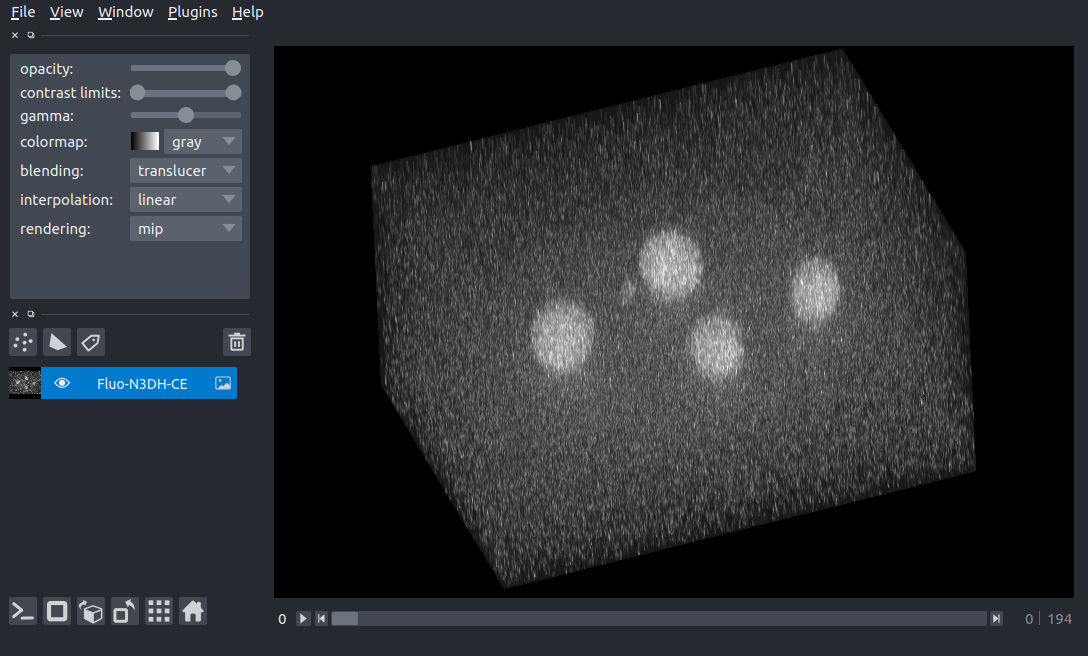
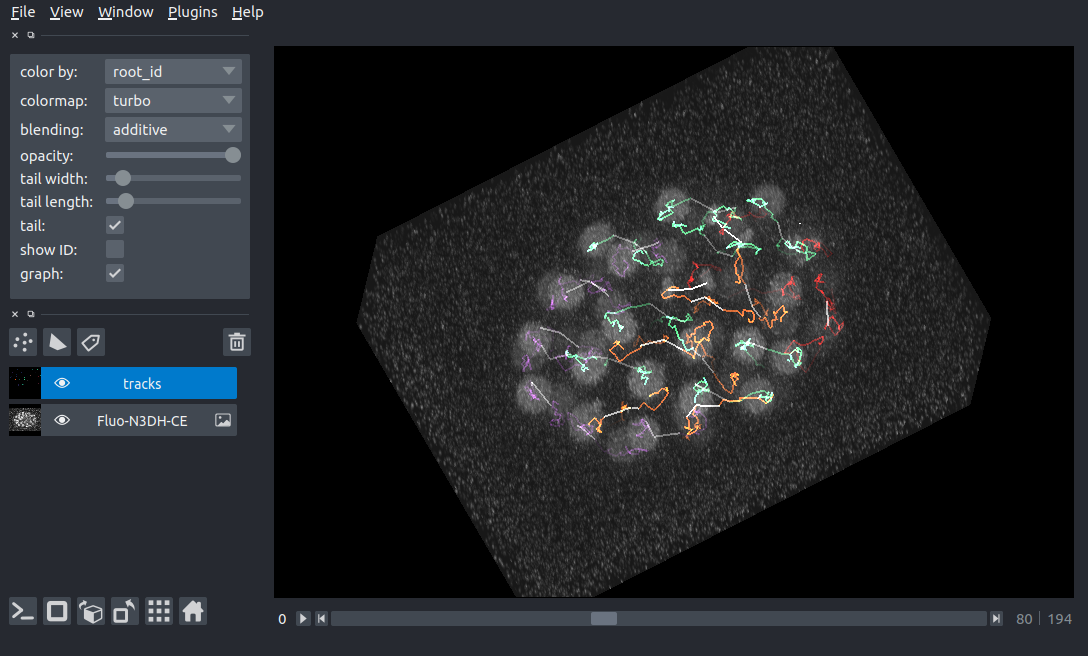
updated cell tracking application

diff --git a/applications/cell_tracking.md b/applications/cell_tracking.md
@@ -7,18 +7,15 @@ In this application note, we will use napari (requires version 0.4.0 or greater)
 
 
 ## cell tracking challenge data
-[cell tracking challenge](http://celltrackingchallenge.net/3d-datasets/)  
+
+The first example of track visualization uses data from the [cell tracking challenge](http://celltrackingchallenge.net/3d-datasets/). We will use the *C. elegans* developing embryo [dataset](http://data.celltrackingchallenge.net/training-datasets/Fluo-N3DH-CE.zip) which consists of 3D+t volumetric imaging data, manually annotated tracks and cell lineage information.
 
 A full description of the data format can be found [here](https://public.celltrackingchallenge.net/documents/Naming%20and%20file%20content%20conventions.pdf).
 
-We will use the *C. elegans* developing embryo [dataset](http://data.celltrackingchallenge.net/training-datasets/Fluo-N3DH-CE.zip).
-
-![image]({{ '/assets/tutorials/tracks_isbi.png' | relative_url }})
-![image](/assets/tutorials/tracks_isbi.png)
 
 ### extracting the tracks from the dataset
 
-First we need to extract the centroids and track labels from the annotated dataset.
+We need to extract the centroids of each cell and their associated track labels from the annotated dataset. We start by loading the images containing the centroids and unique track labels:
 
 ```python
 import os
@@ -29,11 +26,7 @@ import pandas as pd
 
 from skimage.io import imread
 from skimage.measurements import regionprops_table
-```
 
-Start by loading the images containing the centroids and unique track labels.
-
-```python
 PATH = '/path/to/Fluo-N3DH-CE/'
 NUM_IMAGES = 195
 
@@ -80,7 +73,10 @@ data = data.to_numpy()
 
 ### calculating the graph using the lineage information
 
-In the cell tracking challenge dataset, cell lineage information is stored in a text file `man_track.txt`.  The graph information is stored in the following format:
+The `Tracks` layer can also be used to visualize a track 'graph' using the additional keyword argument `graph`. The `graph`  represents associations between tracks, by defining the
+mapping between a `track_id` and the parents of the track. This graph can be useful in single cell tracking to understand the lineage of cells over multiple cell division events.
+
+In the cell tracking challenge dataset, cell lineage information is stored in a text file `man_track.txt` in the following format:
 
 > A text file representing an acyclic graph for the whole video. Every line corresponds
 to a single track that is encoded by four numbers separated by a space:  
@@ -89,8 +85,7 @@ to a single track that is encoded by four numbers separated by a space:
 > E - a zero-based temporal index of the frame in which the track ends  
 > P - label of the parent track (0 is used when no parent is defined)  
 
-First, we load the text file and convert it to a Nx4 integer numpy array, where the rows represent tracks
-and the columns represent L, B, E and P:
+To extract the graph, we load the text file and convert it to a Nx4 integer numpy array, where the rows represent individual tracks and the columns represent L, B, E and P:
 ```python
 lbep = np.loadtxt(os.path.join(PATH, '01_GT/TRA', 'man_track.txt'), dtype=np.uint)
 ```
@@ -134,33 +129,48 @@ properties = {'root_id': [roots[idx] for idx in data[:, 0]]}
 
 ### visualizing the tracks with napari
 
-Finally, we need to adjust the data to account for the anisotropic nature of the image data. We can use the `scale` feature of napari layers to set the voxel size where the z dimension is different to the size in the x and y dimensions. From the dataset, the voxel size (XYZ) in microns is 0.09 x 0.09 x 1.0. Therefore we can set the scale for the layers as:
+Alongside the tracks, we can also visualize the fluorescence imaging data.
+
+```python
+timelapse = [imread(os.path.join(PATH, '01', f't{i:0>3}.tif')) for i in range(NUM_IMAGES)]
+```
+
+Finally, we need to adjust the scaling of the data to account for the anisotropic nature of the images. We can use the `scale` feature of napari layers to set the voxel size where the z dimension is different to the size in the x and y dimensions. From the dataset, the voxel size (XYZ) in microns is 0.09 x 0.09 x 1.0. Therefore we can set the scale for the layers as:
 
 ```python
 # scale factor for dimensions in TZYX order
 SCALE = (1.0, 1.0, 0.09, 0.09)
 ```
 
-We can now visualize the tracks in napari. Note that we need to initialize and interact with the napari viewer in the `with napari.gui_qt()` context manager in order to ensure the GUI is property initialized.
+We can now visualize the tracks in napari. Note that we need to initialize and interact with the napari viewer in the `with napari.gui_qt()` context manager in order to ensure the GUI is properly initialized.
 
 ```python
 with napari.gui_qt():
     viewer = napari.Viewer()
-    viewer.add_image(images, scale=SCALE, name='Fluo-N3DH-CE')
-    viewer.add_tracks(data, properties=properties, graph=graph, scale=SCALE)
+    viewer.add_image(timelapse, scale=SCALE, name='Fluo-N3DH-CE')
+    viewer.add_tracks(data, properties=properties, graph=graph, scale=SCALE, name='tracks')
 ```
+
+![image]({{ '/assets/tutorials/tracks_isbi.png' | relative_url }})
+![image](../assets/tutorials/tracks_isbi.png)
 
 ---
 
 ## using `btrack` to track cells
 
-The `btrack` library can be used for cell tracking. It provides a convenient `to_napari()` function to enable rapid visualization of the tracking results.
+The `btrack` library can be used for cell tracking. It provides a convenient `to_napari()` function to enable rapid visualization of the tracking results. You can learn more about the `btrack` library [here](https://github.com/quantumjot/BayesianTracker).
 
 ```python
 import btrack
-import napari
 ```
 
+We start by loading a file containing the centroids of all the found cells in each frame of the source movie. Note that this file only contains the locations of cells in the movie, there are no tracks yet. We can use the `btrack` library to load this file as a list of `objects` that contain information about each cell, including the TZYX position.
+
+```python
+objects = btrack.dataio.import_CSV('napari_example.csv')
+```
+
+Next we initialize a `btrack.BayesianTracker` instance using a context manager to ensure the library is properly initialized. The tracker performs the process of linking individual cell observations into tracks and the associated track graph:
 
 ```python
 with btrack.BayesianTracker() as tracker:
@@ -179,6 +189,14 @@ with btrack.BayesianTracker() as tracker:
     data, properties, graph = tracker.to_napari(ndim=2)
 ```
 
+We set the configuration of the tracker using a configuration file using the `.configure_from_file()` method. An the example configuration file can be found [here](https://github.com/quantumjot/BayesianTracker/blob/master/models/cell_config.json).
+
+The objects loaded earlier are added to the tracker using the `.append()` method. We also set the imaging volume using the `volume` property. As this is a 2D dataset, the limits of the volume are set to the XY dimensions of the image dataset, and the Z dimension is set to be large (±1e5).
+
+Next, the objects are linked into tracks using the `.track_interactive()` method. The `step_size` argument specifies how many steps are taken before reporting the tracking statistics. The `.optimize()` method then performs a global optimization on the dataset and creates lineage trees automatically.
+
+Finally, the `.to_napari()` method returns the track vertices, track properties and graph in a format that can be directly visualized using the napari `Tracks` layer:
+
 ```python
 with napari.gui_qt():
     viewer = napari.Viewer()
@@ -186,16 +204,20 @@ with napari.gui_qt():
 ```
 
 ![image]({{ '/assets/tutorials/tracks_btrack.png' | relative_url }})
-![image](/assets/tutorials/tracks_btrack.png)
+![image](../assets/tutorials/tracks_btrack.png)
 
 ## summary
 In this tutorial, we have used napari to track and visualize single cells.
 
 ## further reading
 
-[Documentation on dask.delayed](https://docs.dask.org/en/latest/delayed.html)
+References for cell tracking challenge:  
++ http://dx.doi.org/10.1093/bioinformatics/btu080  
++ http://dx.doi.org/10.1038/nmeth.4473  
 
-http://dx.doi.org/10.1093/bioinformatics/btu080
-http://dx.doi.org/10.1038/nmeth.4473
+Arboretum plugin for napari:
++ [btrack](https://github.com/quantumjot/BayesianTracker)
++ [arboretum](https://github.com/quantumjot/arboretum)
++ [biorxiv preprint](https://www.biorxiv.org/content/early/2020/09/10/2020.09.10.276980)
 
 {% include footer.md %}
